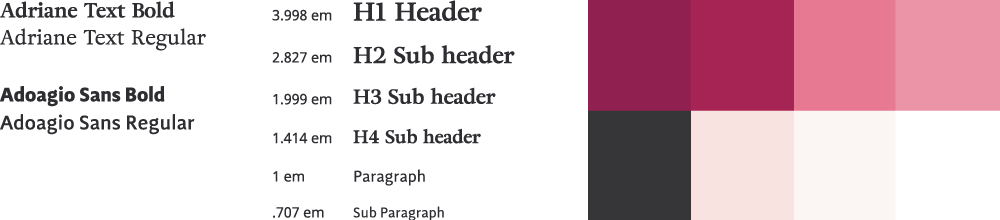
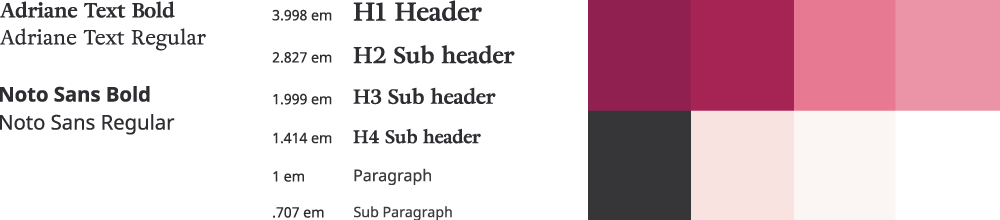
updating assets and type mistakes

diff --git a/maries_brand.html b/maries_brand.html
@@ -77,14 +77,15 @@
   							<source srcset="images/marie/maries_brand_logo.png">
   							<img src="images/marie/maries_brand_logo.png" class="full_image"  alt="Brand mock ups for logo">
 						</picture>
-						<h4>Type</h4>
-							<p>Marie&#8217s uses Adriane Text and Adoagio Sans. The mixture of the serif and san serif create a classic and modern feeling in both the packaging and web experience.</p>
-						<h4>Color</h4>
-							<p>Marie&#8217s uses two palettes: one for its retail-facing site and another for its packaging.</p>
-							<img src="images/marie/maries_brand_type_color.png" class="full_image" alt="Display of two type faces, type scale and warm red, pink, and cream color palette.">
 						<h4>Web</h4>
-							<p>Mariesglutenfree.com is the master brand and home to Marie Antoinette’s Gluten Free Bake Shoppe. A palette of reds, pinks, and creams communicates Marie&#8217s charm and product space, baked goods. (need to add more, may be changing some of it…)</p>
+							<p>Mariesglutenfree.com is the master brand and home to Marie Antoinette’s Gluten Free Bake Shoppe. A palette of reds, pinks, and creams were chosen to communicate Marie&#8217s charm and product space, baked goods.</p>
+								<h5>Type</h5>
+									<p>Marie&#8217s uses Adriane Text and Noto Sans. The mixture of the serif and san serif create a classic and modern feeling in both the packaging and web experience.</p>
+								<h5>Color</h5>
+									<p>Marie&#8217s uses two palettes: one for its retail-facing site and another for its packaging.</p>
+									<img src="images/marie/maries_brand_type_color.png" class="full_image" alt="Display of two type faces, type scale and warm red, pink, and cream color palette.">
 								<h5>Hi fis</h5>
+									<p>I designed the ui for the updated retail site, based off the new <a href="">site ia</a>. Below is a glimpse into the update, featuring the user flow for the product page, shopping cart, and check out experience. </p>base></base>
 							</div>
 						</div>
 					</div>
@@ -100,7 +101,11 @@
 						</div>
 					</div>
 					<div class="container_img">
-							<img src="images/marie/colorpalette_complementary.jpg" class="full_image" alt="Image of the seven different packaging stickers and the palettes.">
+						<picture>
+							<source srcset="images/marie/colorpalette_complementary_mobile.jpg" media="(max-width: 699px)">
+  							<source srcset="images/marie/colorpalette_complementary.jpg">
+  							<img src="images/marie/colorpalette_complementary.jpg" class="full_image"  alt="Image of the seven different packaging stickers and the palettes">
+						</picture>
 					</div>
 					<div class= "container_project">
 						<div class ="section">
@@ -113,7 +118,11 @@
 						</div>
 					</div>
 			<div class= "container_img">
-				<img src="images/marie/testing.jpg" class="full_image" alt="testing packages">
+				<picture>
+							<source srcset="images/marie/testing_mobile.jpg" media="(max-width: 699px)">
+  							<source srcset="images/marie/testing.jpg">
+  							<img src="images/marie/testing.jpg" class="full_image" alt="testing packages"> 
+						</picture>
 			</div>
 			<div class= "container_project">
 				<div class= "section">

diff --git a/ibm_design_practices.html b/ibm_design_practices.html
@@ -73,7 +73,7 @@
 			</div>
 		</div>
 		<div class="container_full_bleed">
-			<img src="images/ibm/ibm_design_practices.png" class="full_image" alt="compliation of work, featuring process around lemniscate for IBM Design Thinking and touch guidelines from IBM Design Language."><
+			<img src="images/ibm/ibm_design_practices.png" class="full_image" alt="compliation of work, featuring process around lemniscate for IBM Design Thinking and touch guidelines from IBM Design Language.">
 		</div>
 		<div class= "container_project">
 			<div class= "section">

diff --git a/landing_page_style.css b/landing_page_style.css
@@ -48,7 +48,7 @@ p{
 	font-family:'Source Sans Pro', sans-serif;
 	font-size: 1em;
 	color: #261933;
-	font-weight: 300;
+	font-weight: 400;
 	margin-top: 10px;
 	margin-bottom: 18px;
 	line-height:1.55em;
